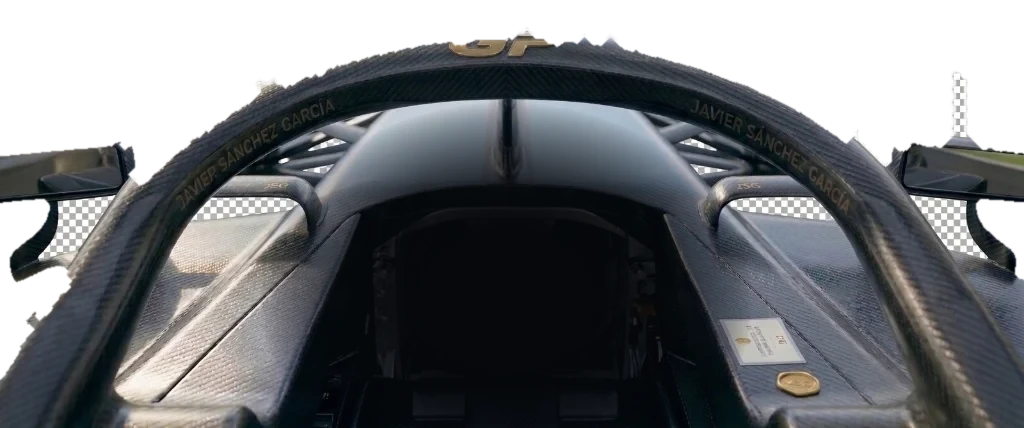
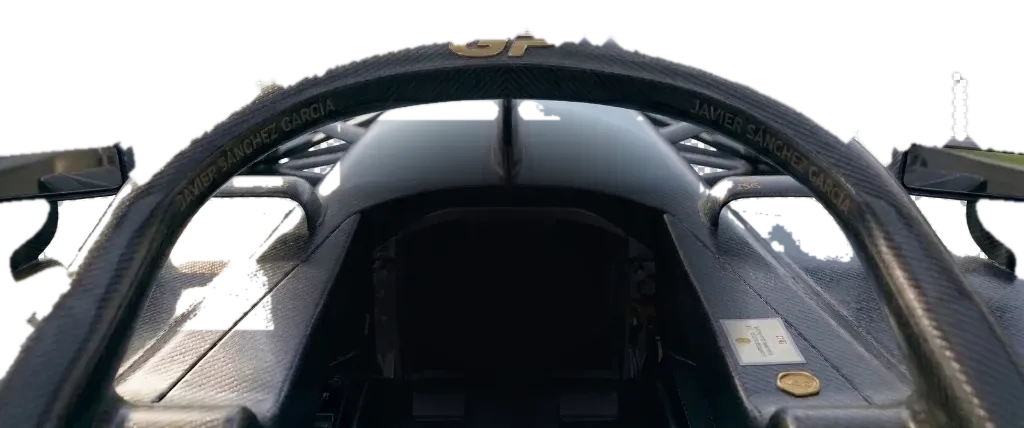
Build 823: cuadrados del cockpit a transparencia total
El webp del cockpit traia horneadas tramas checkerboard y fondo blanco
opaco en los huecos de los retrovisores y esquinas: se borran a alfa 0
manteniendo espejos, soportes, pegatina y carbono intactos.

Generated with [Devin](https://devin.ai)

diff --git a/sw.js b/sw.js
@@ -1,5 +1,5 @@
 // Service worker: actualiza primero por red y guarda copia para offline (PWA)
-const CACHE = 'scgp-v387';
+const CACHE = 'scgp-v388';
 const ASSETS = [
   './', 'index.html', 'circuitos.js', 'fondo.jpg', 'fondo2.jpg', 'portada.jpg',
   'fondo_pw.png', 'fondo_card.jpg', 'fondo_manual.jpg', 'f1.png', 'f1sel.png', 'f1_r26.png', 'f1_scarlet.png', 'f1_verde.png', 'f1_amarillo.png', 'f1_negro.png', 'f1_rosa.png', 'f1_naranja.png', 'volante.webp', 'volante_giro.webp', 'volante_fijo.webp', 'cockpit_car.webp', 'stick_dpad.webp', 'fpv_tire.webp', 'logo_gp.webp', 'trofeo.webp', 'logo_shape.js', 'RADIO.mp3', 'three.min.js', 'postprocessing.min.js', 'peerjs.min.js',

diff --git a/index.html b/index.html
@@ -10638,7 +10638,7 @@ let pudT = 0, ripT = 0, pudSld = 0;                    // relojes de charcos, on
 const _els = {};
 const el = id => _els[id] || (_els[id] = document.getElementById(id));
 // Versión del build: +1 por cada cambio entregado
-const BUILD_NO = 822;
+const BUILD_NO = 823;
 el('verNum').textContent = 'Ver.1-' + String(BUILD_NO).padStart(4, '0');
 // Icono SVG premium: <svg class="ic"><use href="#i-..."/></svg>
 const ic = (n, cls) => `<svg class="ic${cls ? ' ' + cls : ''}" viewBox="0 0 24 24"><use href="#i-${n}"/></svg>`;
